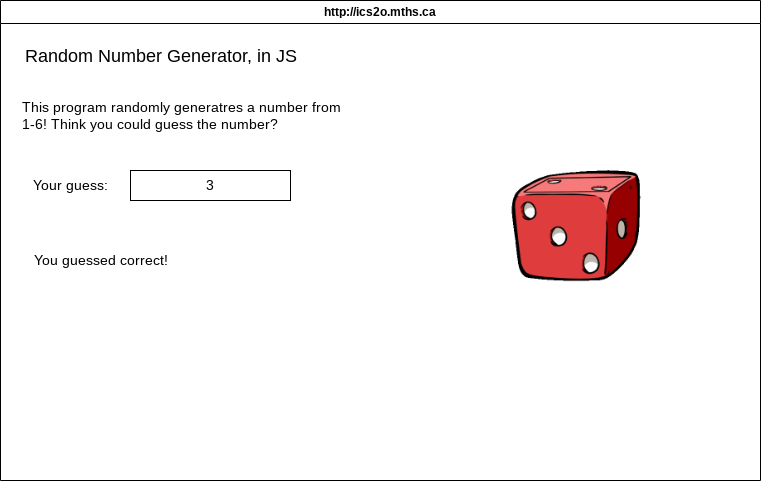
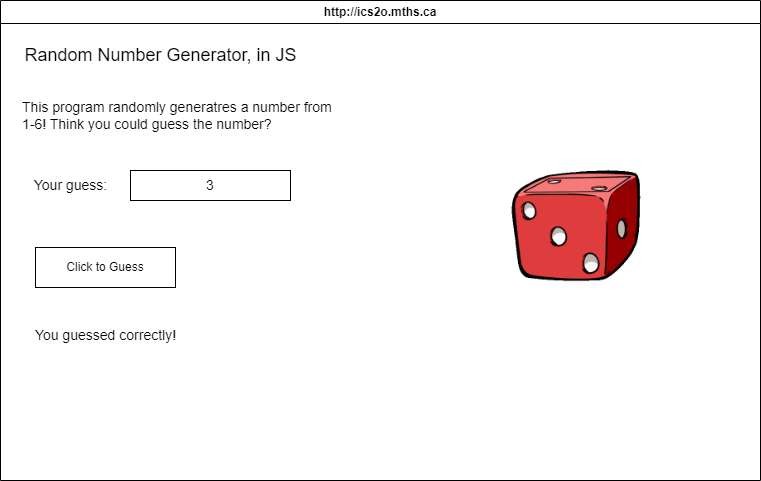
html + js using OR statement

diff --git a/index.html b/index.html
@@ -1,9 +1,79 @@
 <!DOCTYPE html>
-<html>
+<html lang="en-ca">
   <head>
-    <title>Title</title>
+    <meta charset="utf-8" />
+    <meta name="description" content="Random Number Generator, in JS" />
+    <meta name="keywords" content="mths, ics2o" />
+    <meta name="author" content="Julianne Leblanc-Peltier" />
+    <meta name="viewport" content="width=device-width, initial-scale=1.0" />
+    <link rel="stylesheet" href="./css/style.css" />
+    <link
+      rel="stylesheet"
+      href="https://fonts.googleapis.com/icon?family=Material+Icons"
+    />
+    <link
+      rel="stylesheet"
+      href="https://code.getmdl.io/1.3.0/material.deep_purple-light_green.min.css"
+    />
+    <link rel="apple-touch-icon" sizes="180x180" href="apple-touch-icon.png" />
+    <link rel="icon" type="image/png" sizes="32x32" href="favicon-32x32.png" />
+    <link rel="icon" type="image/png" sizes="16x16" href="favicon-16x16.png" />
+    <link rel="manifest" href="site.webmanifest" />
+    <title>Random Number Generator, in JS</title>
   </head>
   <body>
-    <p>Paragraph</p>
+    <script defer src="https://code.getmdl.io/1.3.0/material.min.js"></script>
+    <script src="./js/script.js"></script>
+    <div class="mdl-layout mdl-js-layout mdl-layout--fixed-header">
+      <header class="mdl-layout__header">
+        <div class="mdl-layout__header-row">
+          <span class="mdl-layout-title"
+            >Random Number Generator, in JS</span
+          >
+        </div>
+      </header>
+      <div class="content">
+        <div class="row">
+          <div class="column">
+            <br />
+            <p>This program randomly generatres a number from 1-6! Think you could guess the number?</p>
+            <!-- Numeric Textfield with Floating Label -->
+            <form action="#">
+              Your guess: <div
+                class="mdl-textfield mdl-js-textfield mdl-textfield--floating-label"
+              >
+                <input
+                  class="mdl-textfield__input"
+                  type="text"
+                  pattern="-?[0-9]*(\.[0-9]+)?"
+                  id="user-number-guess"
+                />
+                <label class="mdl-textfield__label" for="sample4"
+                  >Number from 1 to 6</label
+                >
+                <span class="mdl-textfield__error">Input is not a number!</span>
+              </div>
+              <!-- Accent-colored raised button with ripple -->
+              <br />
+              <button
+                class="mdl-button mdl-js-button mdl-button--raised mdl-js-ripple-effect mdl-button--accent"
+                onclick="myButtonClicked()"
+              >
+                Guess
+              </button>
+            </form>
+            <div id="number-guess-output">
+            </div>
+          </div>
+          <div class="column">
+            <br /> <br /> <br />
+            <img
+              src="./images/dice.gif"
+              alt="dice gif"
+            />
+          </div>
+        </div>
+      </div>
+    </div>
   </body>
 </html>

diff --git a/css/style.css b/css/style.css
@@ -1,4 +1,28 @@
-/* Created by: Mr. Coxall
-* Created on: Sep 2020
+/* Created by: Julianne Leblanc-Peltier
+* Created on: April 2024
 * This file contains the CSS for index.html
 */
+
+body {
+  background-color: rgb(214 181 236);
+}
+
+.content {
+  padding: 1%;
+}
+
+.column {
+  float: left;
+  width: 50%;
+}
+
+/* Clear floats after the columns */
+.row::after {
+  content: "";
+  display: table;
+  clear: both;
+}
+
+.image {
+  width: 20%;
+}

diff --git a/js/script.js b/js/script.js
@@ -19,4 +19,9 @@ function myButtonClicked() {
     //output
     document.getElementById("number-guess-output").innerHTML = "You guessed incorrectly!"
   }
+
+  if (userNumberGuess > 6 || userNumberGuess < 1) {
+    //output
+    document.getElementById("number-guess-output").innerHTML = "Please input a number from 1 to 6!"
+  }
 }
